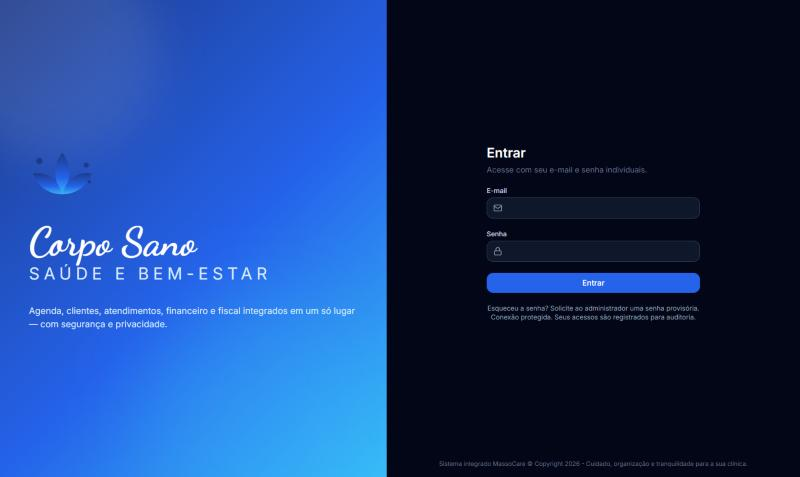
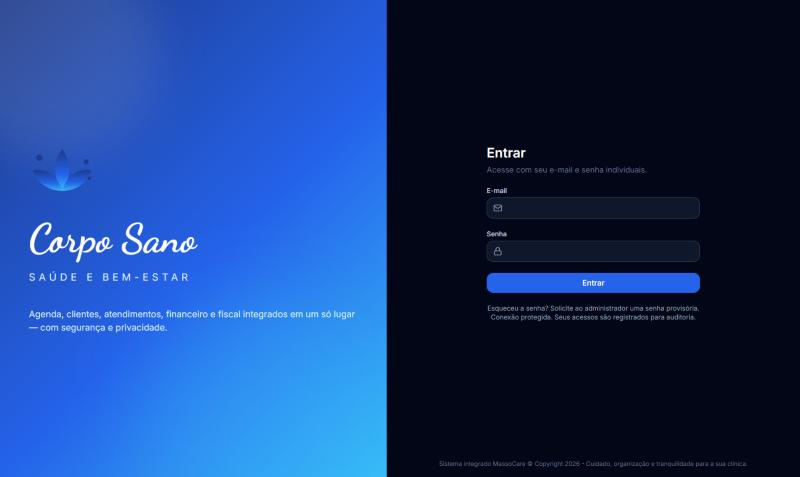
Login no computador: 'Saúde e bem-estar' menor e mais afastado do nome

diff --git a/frontend/src/components/Logo.tsx b/frontend/src/components/Logo.tsx
@@ -43,7 +43,7 @@ export function Logo({ hasLogo, compact = false, light = false, large = false, c
       {!compact && (
         <div className="leading-none">
           <p className={clsx("font-script font-bold", large ? "text-7xl" : "text-2xl", light ? "text-white" : "text-brand-900 dark:text-white")}>Corpo Sano</p>
-          <p className={clsx("uppercase", large ? "mt-1.5 text-[30px] tracking-[0.25em]" : "mt-0.5 text-[10px] tracking-[0.25em]", light ? "text-brand-100" : "text-brand-600 dark:text-brand-100")}>
+          <p className={clsx("uppercase", large ? "mt-5 text-lg tracking-[0.35em]" : "mt-0.5 text-[10px] tracking-[0.25em]", light ? "text-brand-100" : "text-brand-600 dark:text-brand-100")}>
             saúde e bem-estar
           </p>
         </div>
